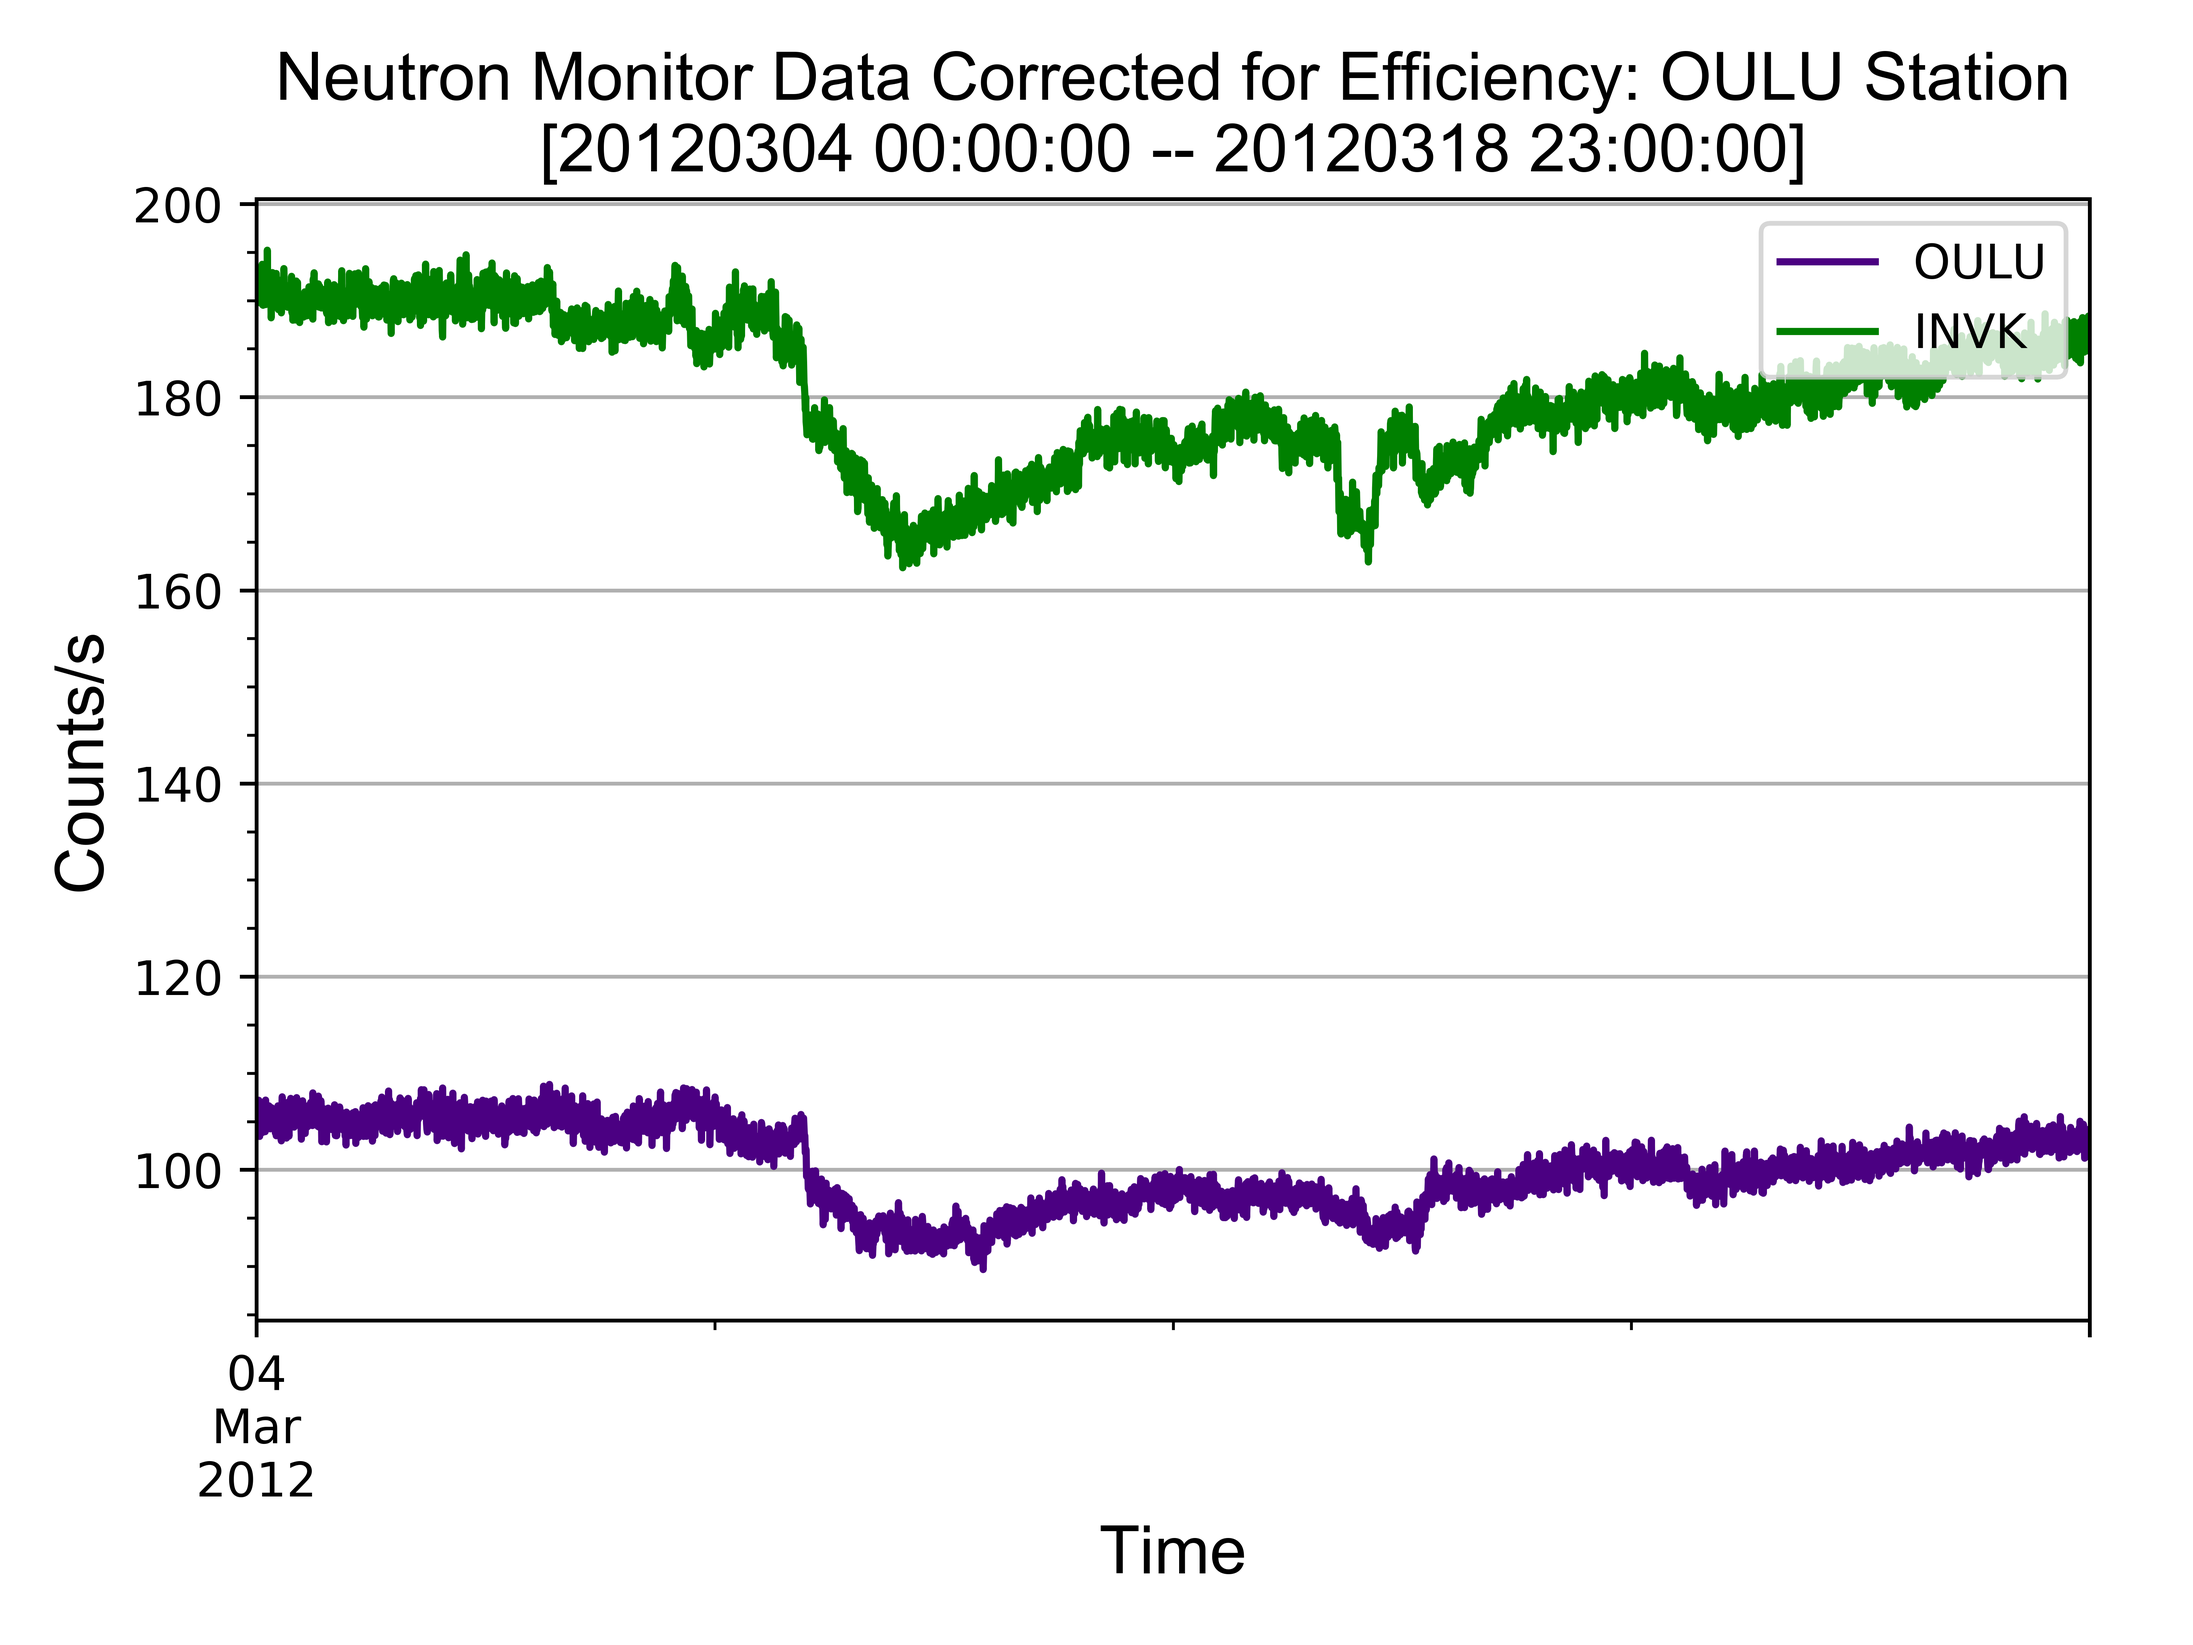
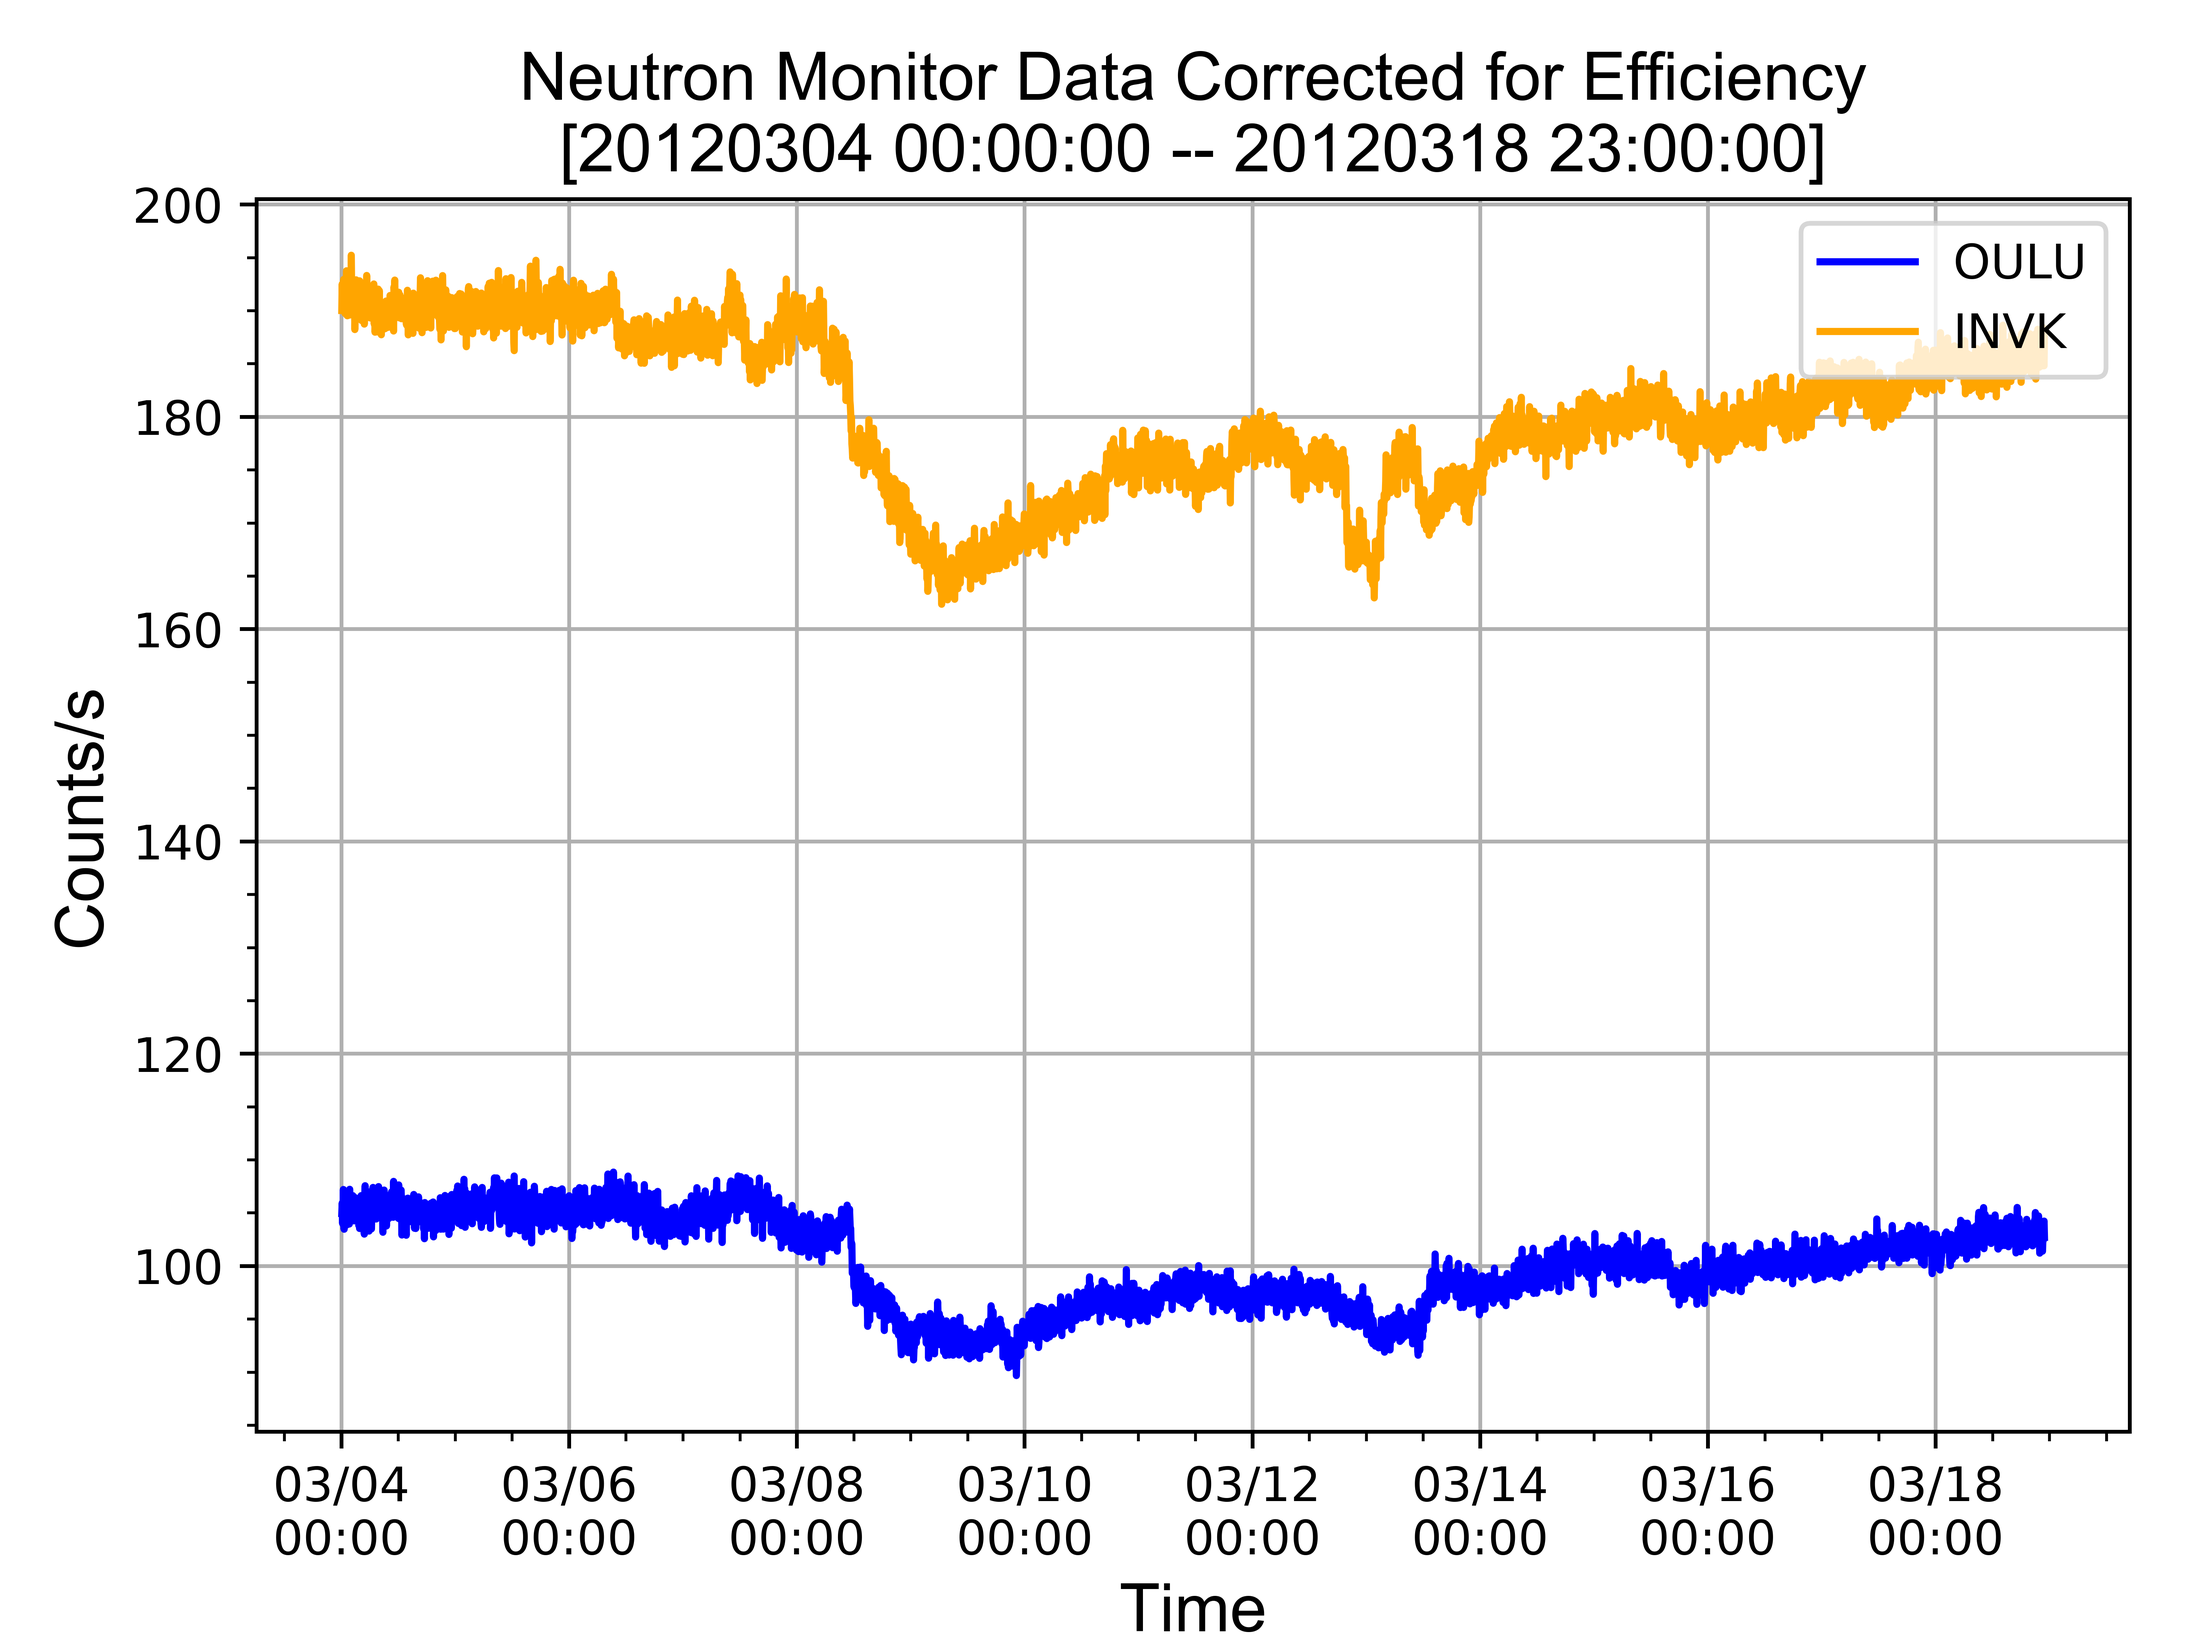
fix to neutron monitor, and changes in readme

diff --git a/pandas_test_nm.py b/pandas_test_nm.py
@@ -113,8 +113,8 @@ nm_data = pd.DataFrame([])
 name_list = ['datetime'] + [ str(i) for i in sorted_nm_list]
 
 dateparse = lambda x: pd.datetime.strptime(x, '%Y-%m-%d %H:%M:%S')
-nm_data = pd.read_csv(url, sep=';|\n|\b', skiprows=133, skipfooter=3, engine='python', index_col='datetime', names=name_list, date_parser=dateparse, parse_dates=['datetime'], na_values=['null']) #, 
-
+nm_data = pd.read_csv(url,sep=';|\n|\b', skiprows=133, skipfooter=3, engine='python', index_col='datetime', date_parser=dateparse, names=name_list, na_values=['   null']) #, , parse_dates=['datetime'], date_parser=dateparse
+#delim_whitespace=True
 
 nm_counter = []
 for item in sorted_nm_list:
@@ -123,11 +123,12 @@ for item in sorted_nm_list:
 	else:
 		nm_counter.append(0)
 
+'''
 for i in nm_counter:
 	if i == 1:
 		print('Please select station with data for this time frame.')
 		sys.exit(0)
-
+'''
 
 #====Plotting
 myFmt = mdates.DateFormatter('%m/%d\n%H:%M') #this is line that breaks code (ValueError: year 60740 is out of range)
@@ -135,18 +136,18 @@ myFmt = mdates.DateFormatter('%m/%d\n%H:%M') #this is line that breaks code (Val
 color_count = []
 for i in sorted_nm_list:
 
-	color_list = ['red','orange','yellow','green','blue','indigo','violet','purple']
+	color_list = ['red','orange','green','blue','indigo','violet','purple'] #,'yellow'
 	color_list = list(set(color_list) - set(color_count))
 
 	rand_color = random.choice(color_list)
 	color_count.append(rand_color)
 
-
-	nm_data[f'{i}'].loc[f'{event_obj_start_str_date}':f'{event_obj_end_str_date}'].plot(color=rand_color, label= f'{i}')
+	#nm_data[f'{i}'].loc[f'{event_obj_start_str_date}':f'{event_obj_end_str_date}'].plot(color=rand_color, label= f'{i}')
+	plt.plot(nm_data.index, nm_data[f'{i}'], color=rand_color, label=f'{i}')
 
 #nm_data['RCORR_E'].loc[f'{event_obj_start_str_date}':f'{event_obj_end_str_date}'].plot(color='limegreen', label= 'Corrected for Efficiency')
 
-plt.title(f'Neutron Monitor Data Corrected for Efficiency: {station} Station\n[{event_obj_start_str} -- {event_obj_end_str}]', fontname="Arial", fontsize = 14)
+plt.title(f'Neutron Monitor Data Corrected for Efficiency\n[{event_obj_start_str} -- {event_obj_end_str}]', fontname="Arial", fontsize = 14)
 plt.xlabel('Time', fontname="Arial", fontsize = 14)
 plt.ylabel('Counts/s', fontname="Arial", fontsize = 14)
 plt.minorticks_on()
@@ -158,9 +159,11 @@ plt.tight_layout()
 ax = plt.gca()
 
 ax.xaxis.set_major_formatter(myFmt) #this is line that breaks code (ValueError: year 60740 is out of range)
+#ax.xaxis.set_major_formatter(dates.DateFormatter('%H'))
 #plt.axes().xaxis.set_major_formatter(myFmt)
 
-#plt.setp(ax.xaxis.get_majorticklabels(), rotation=0, horizontalalignment='center')
+plt.setp(ax.xaxis.get_majorticklabels(), rotation=0, horizontalalignment='center')
+
 
 #plt.savefig('nm_data.png', format='png', dpi=900)
 plt.show()

diff --git a/README.md b/README.md
@@ -7,8 +7,8 @@
 
 - [x] Type III Radio Bursts (7/3/2017)
 
-- [ ] Fix issues with matplotlib DateFormatter "year out of range"
-	- [ ] Added issue with null errors in data frames
+- [x] Fix issues with matplotlib DateFormatter "year out of range" (7/5/2017)
+	- [x] Added issue with null errors in data frames (7/5/2017)
 
 - [ ] Collect GOES-15 Xray data
 
@@ -19,35 +19,7 @@
 - [ ] Incorporate online databases for radio and proton data
 
 # Current Errors
-### Null values
-- Some values are being registered as 'null'. Tried to add ``` na_values=['null']``` to the read_csv function, but the null is still being processed and results in a plotting error. To recreate error, run the 'pandas_test_nm.py' script for 20120307-20120309 (full) for stations (2) INVK and OULU.
-- Resolution will probably consist of removing null values, list comprehension on all null values in pandas dataframe.  
-```TypeError: Empty 'DataFrame': no numeric data to plot```
-
-```python
-                       OULU     INVK
-datetime                            
-2012-03-08 17:28:00  96.459  176.470
-2012-03-08 17:29:00  98.389  173.920
-2012-03-08 17:30:00  94.656     null
-2012-03-08 17:31:00  92.282  172.800
-2012-03-08 17:32:00  94.688  175.980
-2012-03-08 17:33:00  97.718  175.790
-2012-03-08 17:34:00  97.269  177.460
-2012-03-08 17:35:00  98.304  176.330
-```
-
-### DateFormatter
-- Code breaks when trying to format the x-axis labels using the DateFormatter function from matplotlib in the script, 'pandas_test_nm.py'.
-- Potentially the index are of a different definition, although each index shows the correct format 'yyyy-mm-dd hh:mm:ss' in the specified time interval between 20120307-20120309. Also test if delimiter could be changed to 'delim_whitespace=True' in read_csv function.  
-```ValueError: year 60740 is out of range```
-
-```python
-import matplotlib.dates as mdates
-
-myFmt = mdates.DateFormatter('%m/%d\n%H:%M')
-ax.xaxis.set_major_formatter(myFmt) #this is line that breaks code (ValueError: year 60740 is out of range)
-```
+none
 
 # Running Scripts
 
@@ -142,12 +114,47 @@ The data consists of mainly flux data from instruments on the ground, Earth orbi
 ### Data Caveats
 Corrupted data is labeled as -99999.0, and 0.0 flux is most probable to be corrupted as well. Corrupted data is changed using the pandas replace function to np.nan.
 
-GOES-13 Proton Flux
+## Data originals
+GOES-13 Proton Flux  
+GOES-15 Xray Flux  
+ACE Magnetic Field Components  
+ACE Solar Wind Parameters  
+OULU Neutron Monitor Data  
 
-GOES-15 Xray Flux
 
-ACE Magnetic Field Components
+# Resolved Errors
 
-ACE Solar Wind Parameters
+### Null values (resolved 7/5/2017)
+* Resolution: There were three spaces in front of the null values, delimit whitespace to removed them. As a quick fix, 3 spaces were added to the 'na_values' argument, '   null'.  
 
-OULU Neutron Monitor Data
+- Some values are being registered as 'null'. Tried to add ``` na_values=['null']``` to the read_csv function, but the null is still being processed and results in a plotting error. To recreate error, run the 'pandas_test_nm.py' script for 20120307-20120309 (full) for stations (2) INVK and OULU.
+- Resolution will probably consist of removing null values, list comprehension on all null values in pandas dataframe.  
+```TypeError: Empty 'DataFrame': no numeric data to plot```
+
+```python
+                       OULU     INVK
+datetime                            
+2012-03-08 17:28:00  96.459  176.470
+2012-03-08 17:29:00  98.389  173.920
+2012-03-08 17:30:00  94.656     null
+2012-03-08 17:31:00  92.282  172.800
+2012-03-08 17:32:00  94.688  175.980
+2012-03-08 17:33:00  97.718  175.790
+2012-03-08 17:34:00  97.269  177.460
+2012-03-08 17:35:00  98.304  176.330
+```
+
+### DateFormatter (resolved 7/5/2017)
+* Resolution: Used the matplotlib plot function instead of the pandas plot function.
+
+- Code breaks when trying to format the x-axis labels using the DateFormatter function from matplotlib in the script, 'pandas_test_nm.py'.
+- Potentially the index are of a different definition, although each index shows the correct format 'yyyy-mm-dd hh:mm:ss' in the specified time interval between 20120307-20120309. Also test if delimiter could be changed to 'delim_whitespace=True' in read_csv function.  
+```ValueError: year 60740 is out of range```
+
+```python
+import matplotlib.dates as mdates
+
+myFmt = mdates.DateFormatter('%m/%d\n%H:%M')
+ax.xaxis.set_major_formatter(myFmt) #this is line that breaks code (ValueError: year 60740 is out of range)
+```
+
